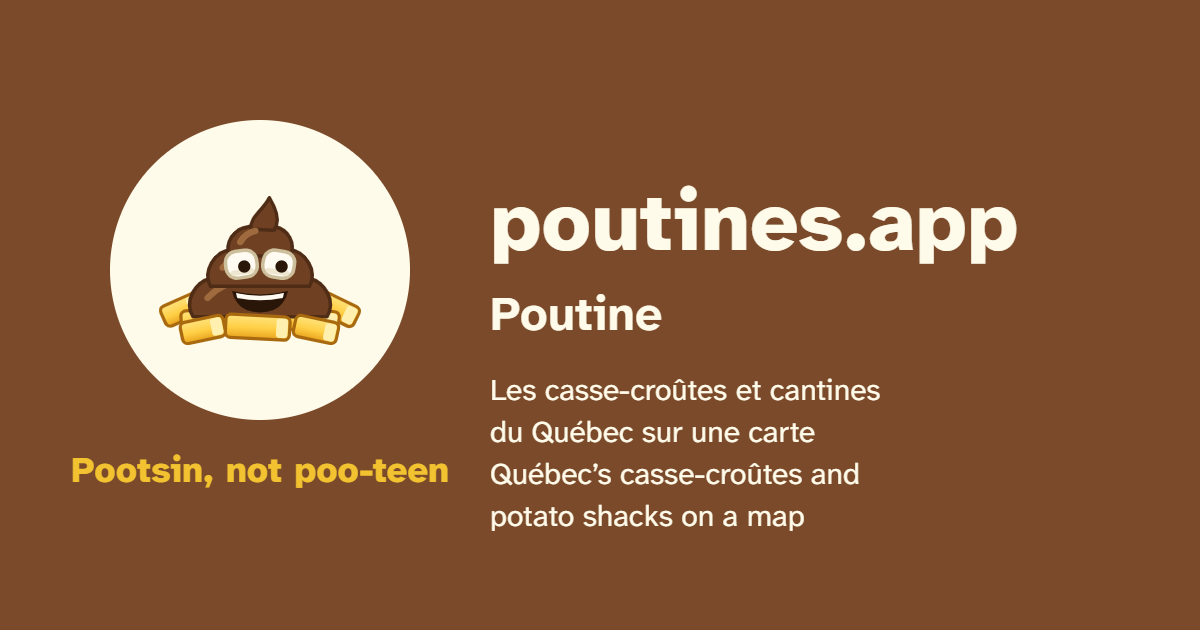
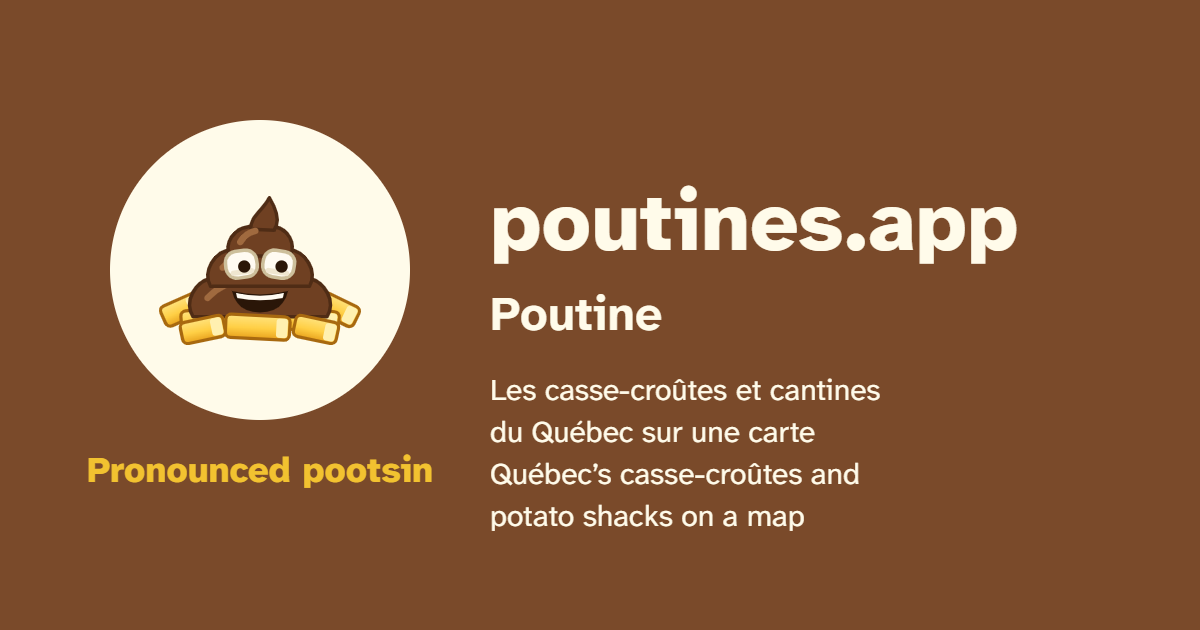
English preview caption: "Pronounced pootsin"
The English link preview picture drops "not poo-teen": its caption now
matches the search bar's "pronounced Pootsin". Redrawn, at share-en.png?v=2.

Changed region(s): [[0.0617, 0.7238, 0.37, 0.7841]]

diff --git a/src/domain/links.ts b/src/domain/links.ts
@@ -56,12 +56,12 @@ export interface FriendStars {
 const FRIEND_CODE = /^[A-Za-z0-9_-]{8}$/;
 
 /**
- * The pictures link previews show: French without a caption, English with "Pootsin, not poo-teen"
+ * The pictures link previews show: French without a caption, English with "Pronounced pootsin"
  * under the poop (Alex, 2026-10-20). Raise `?v=` when one is redrawn, so apps fetch it again.
  */
 export const PREVIEW_PICTURE = {
   fr: `${SITE}/share.png?v=2`,
-  en: `${SITE}/share-en.png?v=1`,
+  en: `${SITE}/share-en.png?v=2`,
 } as const;
 
 /**

diff --git a/tests/unit/links.test.ts b/tests/unit/links.test.ts
@@ -221,6 +221,6 @@ describe('links shared from an English phone', () => {
     expect(friendFromSearch('?s=4&c=x7Kq2m-_&en')).toEqual({ stars: 4, code: 'x7Kq2m-_' });
     expect(isEnglishLink('')).toBe(false);
     expect(isEnglishLink('?s=4&c=x7Kq2m-_')).toBe(false);
-    expect(PREVIEW_PICTURE.en).toBe('https://poutines.app/share-en.png?v=1');
+    expect(PREVIEW_PICTURE.en).toBe('https://poutines.app/share-en.png?v=2');
   });
 });

diff --git a/src/ui/strings.ts b/src/ui/strings.ts
@@ -245,7 +245,7 @@ const english: Strings = {
   language: 'en',
   appName: 'Poutine',
   pronounced: 'pronounced Pootsin',
-  previewCaption: 'Pootsin, not poo-teen',
+  previewCaption: 'Pronounced pootsin',
   preview: {
     kinds: {
       'casse-croute': 'Casse-croûte',
